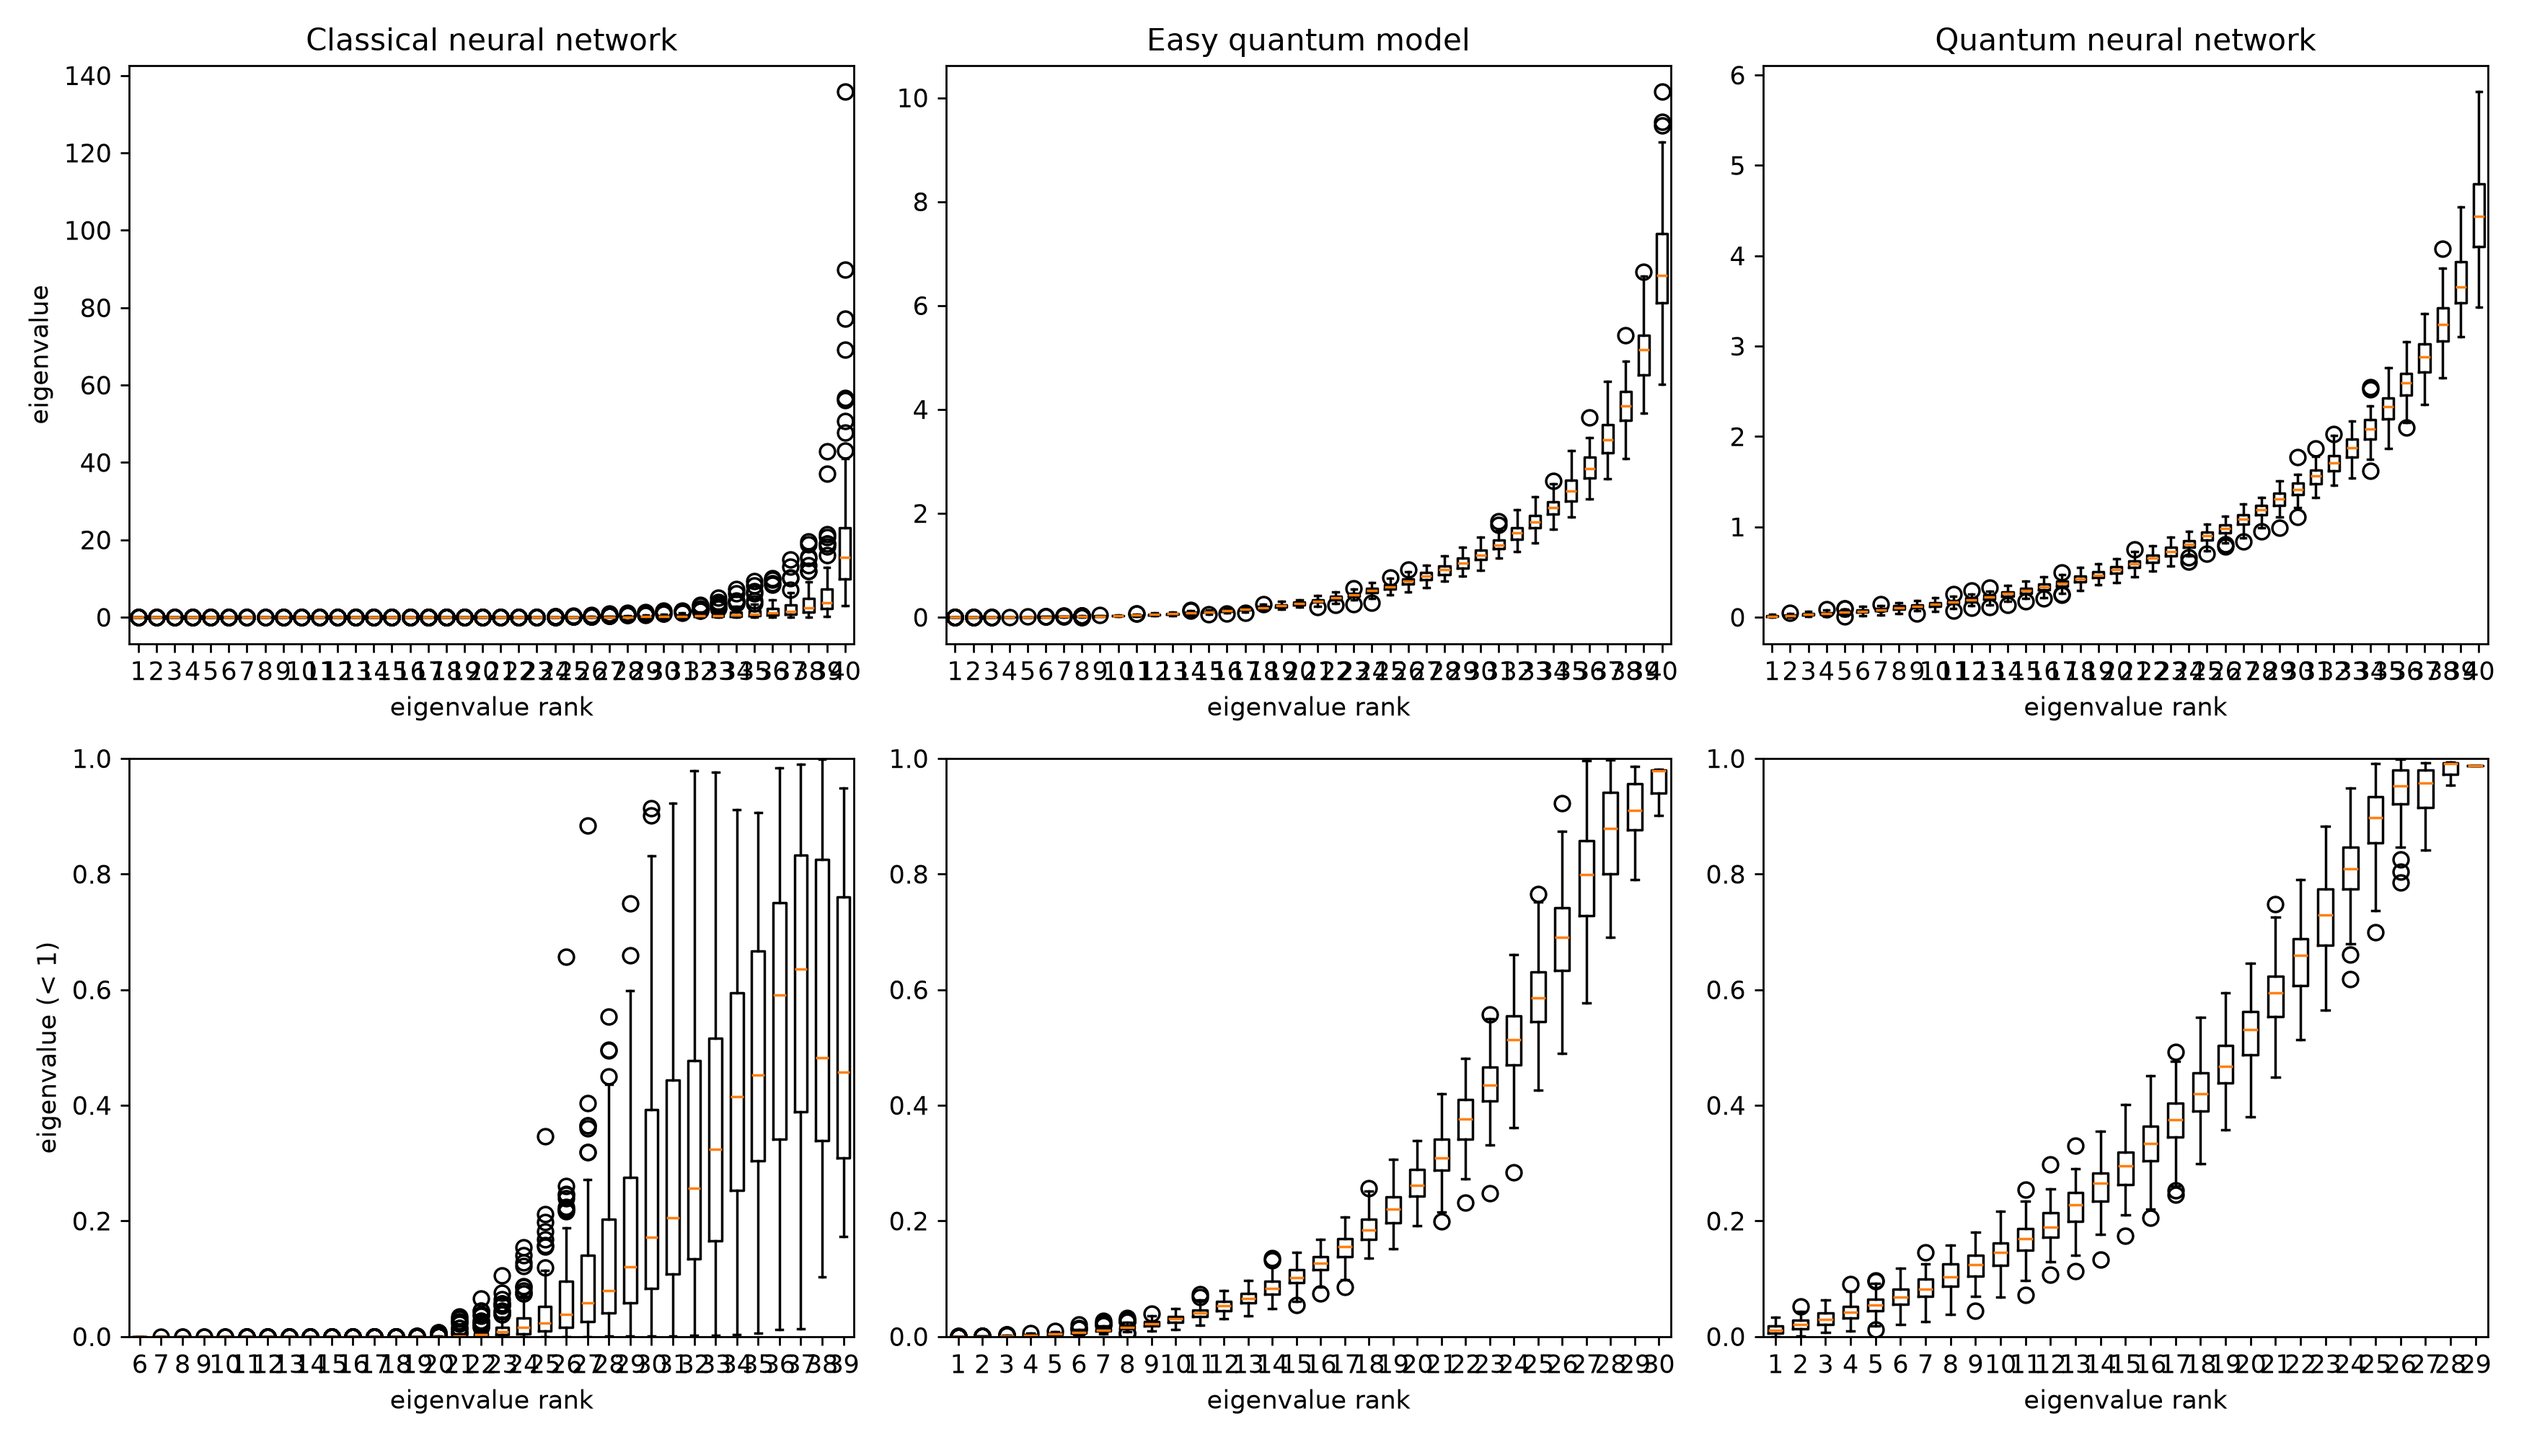
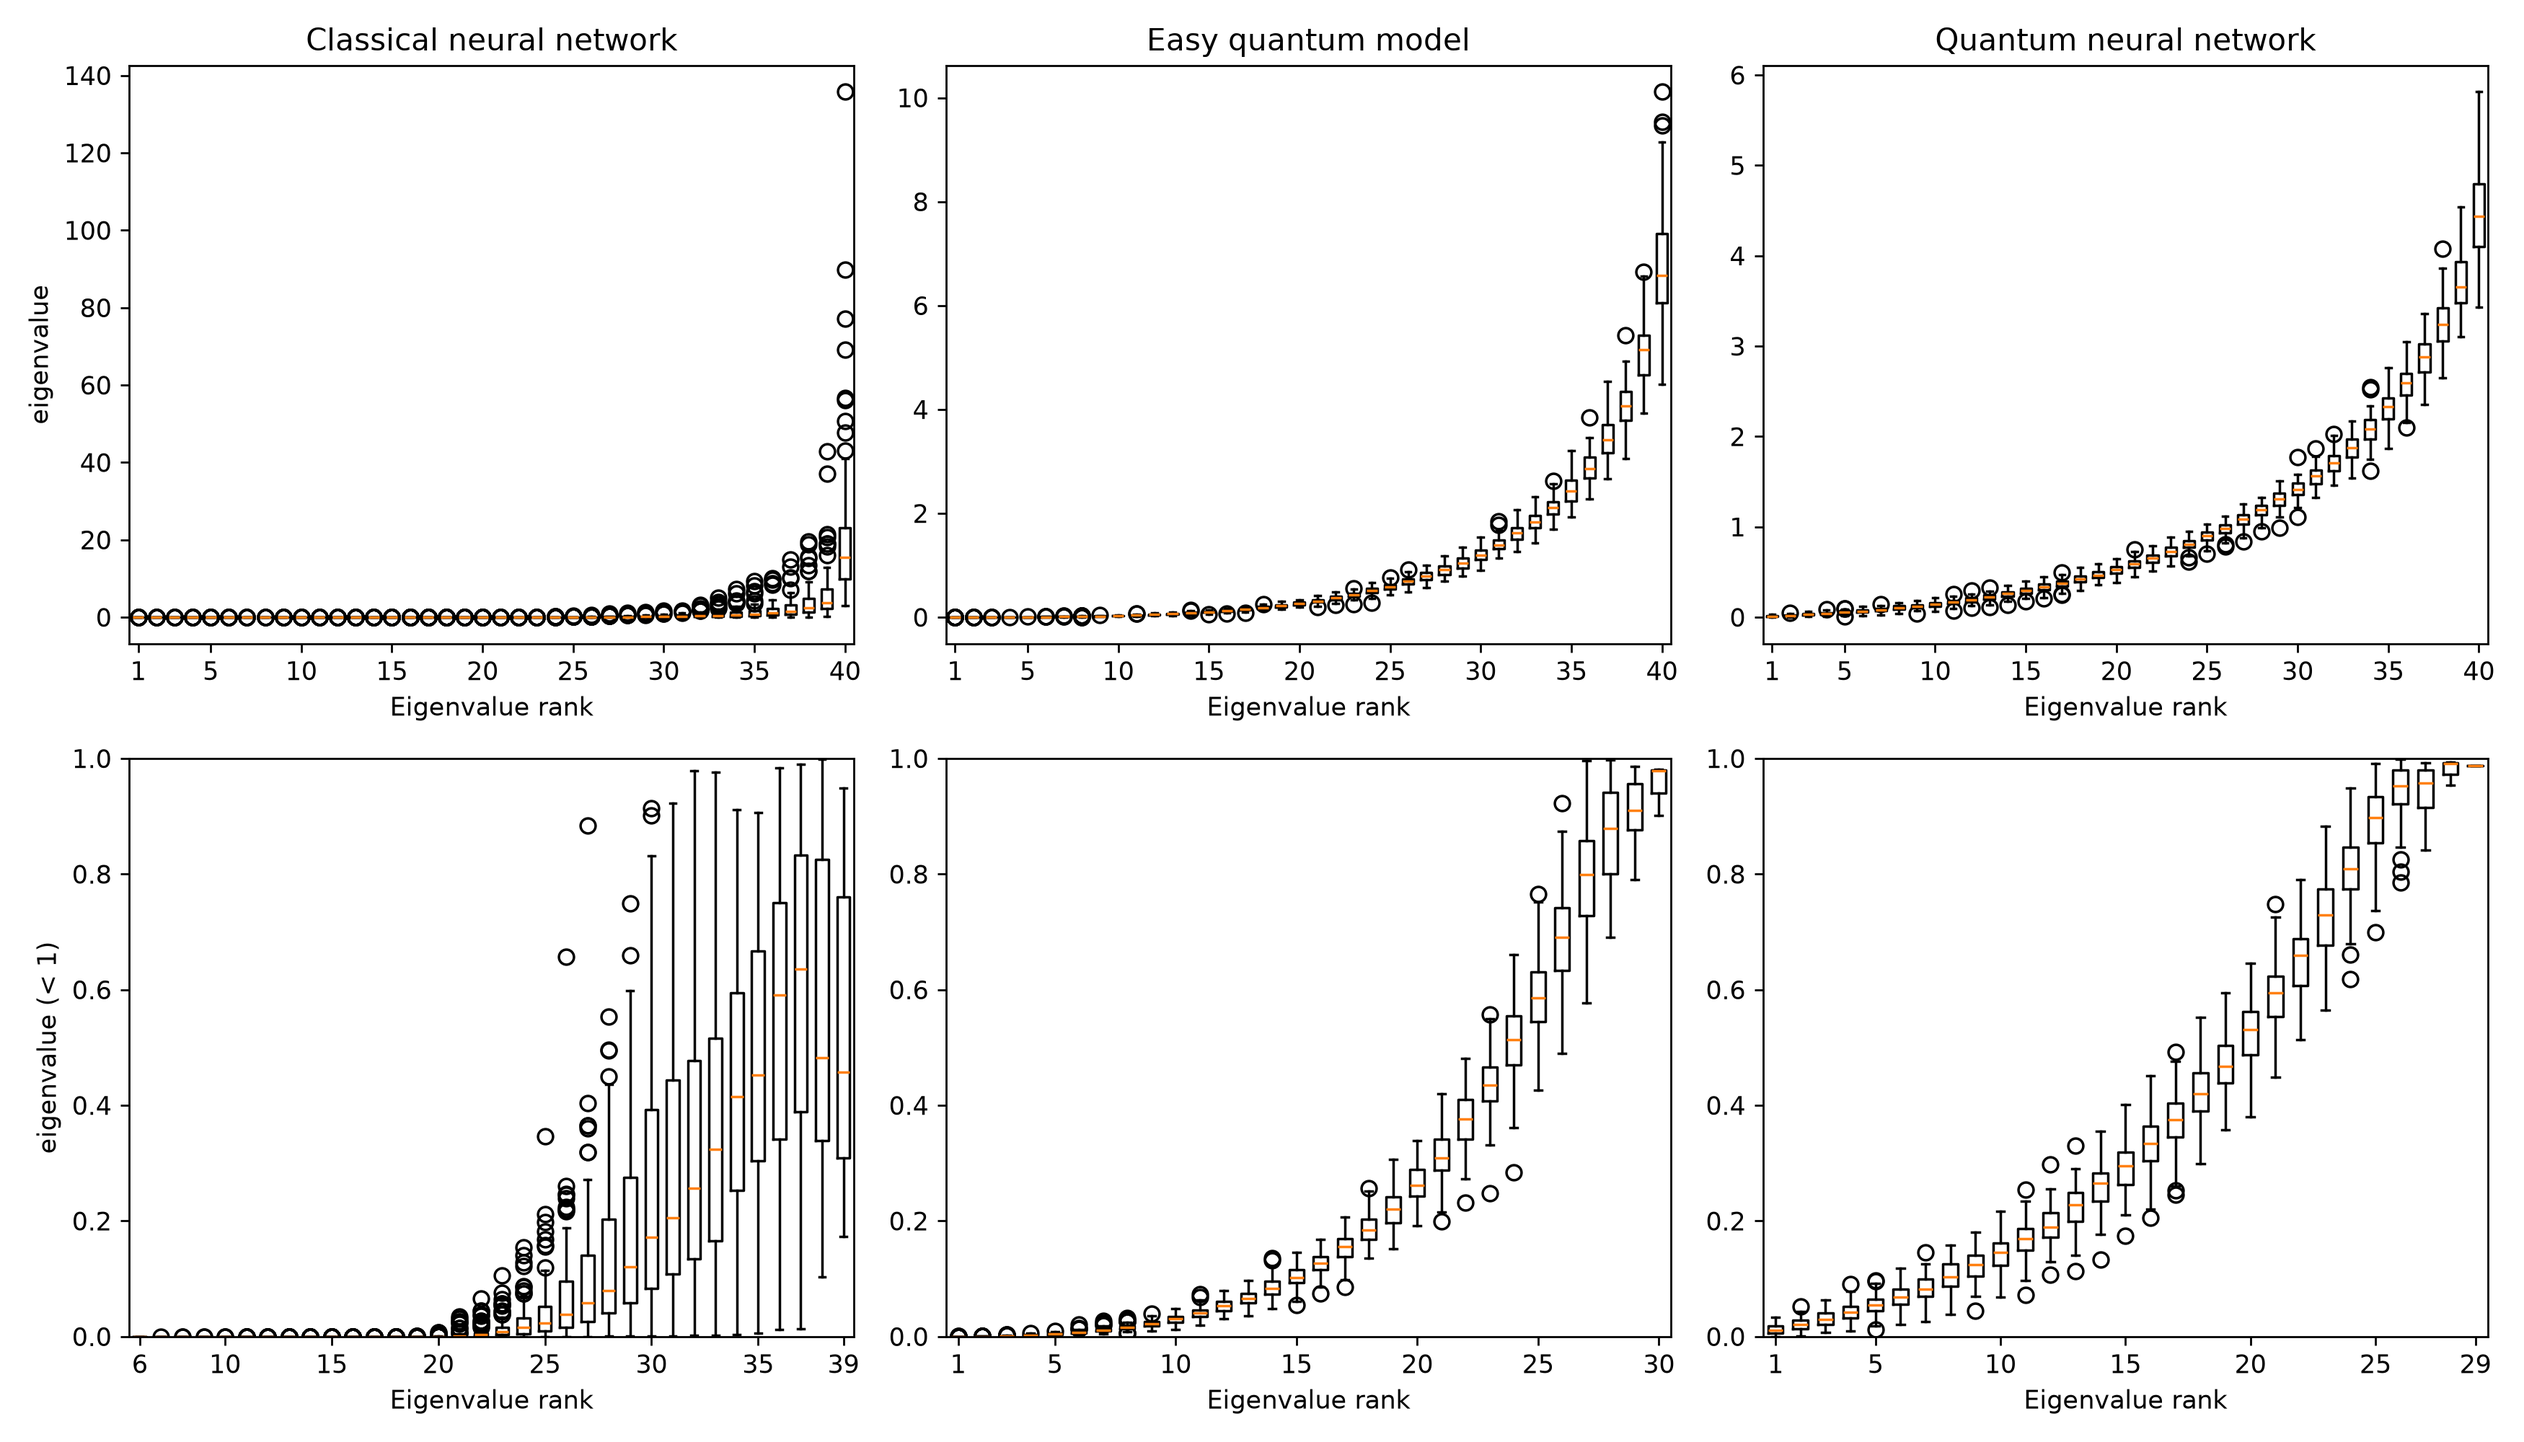
Add reproducible Fisher plotting and improve boxplot rank labels

diff --git a/experiments/fisher_spectrum/plot_results.py b/experiments/fisher_spectrum/plot_results.py
@@ -1,0 +1,325 @@
+from pathlib import Path
+import shutil
+import numpy as np
+import matplotlib.pyplot as plt
+from scipy.special import logsumexp
+from scipy import interpolate
+
+ROOT = Path.cwd()
+DATA = ROOT / "results" / "effective_dimension"
+ARCHIVE = ROOT / "results" / "archive"
+OUT = ROOT / "figures"
+ANALYSIS = ROOT / "results" / "analysis"
+
+ARCHIVE.mkdir(parents=True, exist_ok=True)
+OUT.mkdir(parents=True, exist_ok=True)
+ANALYSIS.mkdir(parents=True, exist_ok=True)
+
+paths = {
+    "Classical NN": DATA / "fhat4_[4 4 4 2]_fisher.npy",
+    "Easy quantum": DATA / "4qubits_9layer_f_hats_pauli.npy",
+    "Quantum NN": DATA / "4qubits_9layer_f_hats_dep2.npy",
+}
+
+missing = [str(p) for p in paths.values() if not p.exists()]
+if missing:
+    raise FileNotFoundError("Missing required dataset(s):\n" + "\n".join(missing))
+
+data = {name: np.load(path) for name, path in paths.items()}
+
+# ---------------------------------------------------------------------
+# Validate the three canonical full datasets.
+# ---------------------------------------------------------------------
+summary_lines = []
+eig_all = {}
+
+for name, x in data.items():
+    if x.shape != (100, 40, 40):
+        raise ValueError(f"{name}: expected (100, 40, 40), got {x.shape}")
+    if not np.isfinite(x).all():
+        raise ValueError(f"{name}: contains non-finite values")
+
+    asym = float(np.max(np.abs(x - x.transpose(0, 2, 1))))
+    eig = np.linalg.eigvalsh(x)
+    min_eig = float(eig.min())
+    max_eig = float(eig.max())
+    mean_trace = float(np.trace(x, axis1=1, axis2=2).mean())
+
+    if asym > 1e-10:
+        raise ValueError(f"{name}: asymmetry too large: {asym}")
+    if min_eig < -1e-10:
+        raise ValueError(f"{name}: significantly negative eigenvalue: {min_eig}")
+    if not np.isclose(mean_trace, 40.0, rtol=0, atol=1e-8):
+        raise ValueError(f"{name}: mean trace is not 40: {mean_trace}")
+
+    eig_all[name] = eig
+
+    summary_lines.append(
+        f"{name:14s} shape={x.shape} finite=True "
+        f"max_asym={asym:.3e} min_eig={min_eig:.6e} "
+        f"max_eig={max_eig:.6e} mean_trace={mean_trace:.12f}"
+    )
+
+print("\nVALIDATION")
+print("-" * 90)
+for line in summary_lines:
+    print(line)
+
+(ANALYSIS / "validation_summary.txt").write_text(
+    "\n".join(summary_lines) + "\n", encoding="utf-8"
+)
+
+# Archive the completed classical dataset.
+classical_archive = ARCHIVE / "cnn_full_100x100.npy"
+shutil.copy2(paths["Classical NN"], classical_archive)
+print(f"\nArchived classical dataset -> {classical_archive}")
+
+# Save raw sorted eigenvalues for later inspection.
+for name, eig in eig_all.items():
+    safe = name.lower().replace(" ", "_")
+    np.save(ANALYSIS / f"{safe}_eigenvalues.npy", eig)
+
+# ---------------------------------------------------------------------
+# Effective dimension
+# Reproduces the n-grid and normalized formula used in the original
+# project plotting script.
+# ---------------------------------------------------------------------
+n = np.array(
+    [1000, 2000, 8000, 10000, 40000, 60000,
+     100000, 150000, 200000, 500000, 1000000],
+    dtype=float,
+)
+
+def normalized_effective_dimension(f_hat, n_values):
+    d = f_hat.shape[-1]
+    out = []
+    for ns in n_values:
+        Fhat = f_hat * ns / (2 * np.pi * np.log(ns))
+        logdet = np.linalg.slogdet(np.eye(d) + Fhat)[1]
+        r = logdet / 2
+        eff = 2 * (logsumexp(r) - np.log(len(f_hat))) / np.log(
+            ns / (2 * np.pi * np.log(ns))
+        )
+        out.append(eff / d)
+    return np.asarray(out)
+
+ed = {
+    name: normalized_effective_dimension(x, n)
+    for name, x in data.items()
+}
+
+np.savetxt(
+    ANALYSIS / "effective_dimension.csv",
+    np.column_stack(
+        [n, ed["Classical NN"], ed["Easy quantum"], ed["Quantum NN"]]
+    ),
+    delimiter=",",
+    header="n,classical_nn,easy_quantum,quantum_nn",
+    comments="",
+)
+
+# Colors preserved from the original project plotting scripts.
+red = np.array([255, 29, 0]) / 255
+blue = np.array([0, 150, 236]) / 255
+green = np.array([0, 208, 0]) / 255
+
+plt.figure(figsize=(8, 6))
+plt.plot(n, ed["Quantum NN"], label="quantum NN", color=green)
+plt.plot(n, ed["Classical NN"], label="classical NN", color=red)
+plt.plot(n, ed["Easy quantum"], label="easy quantum", color=blue)
+plt.xscale("log")
+plt.xlabel("number of data")
+plt.ylabel("normalised effective dimension")
+plt.ylim(top=1)
+plt.legend()
+plt.tight_layout()
+plt.savefig(OUT / "effective_dimension.png", dpi=250)
+plt.close()
+
+# ---------------------------------------------------------------------
+# Fisher spectra
+# The historical project plotting code first sorted each Fisher matrix's
+# eigenvalues and then averaged each eigenvalue rank over 100 samples.
+# ---------------------------------------------------------------------
+avg_eigs = {
+    name: np.mean(eig, axis=0)
+    for name, eig in eig_all.items()
+}
+
+np.savetxt(
+    ANALYSIS / "average_sorted_eigenvalues.csv",
+    np.column_stack(
+        [
+            avg_eigs["Classical NN"],
+            avg_eigs["Easy quantum"],
+            avg_eigs["Quantum NN"],
+        ]
+    ),
+    delimiter=",",
+    header="classical_nn,easy_quantum,quantum_nn",
+    comments="",
+)
+
+def density_curve(values, restrict_lt_one=False):
+    v = np.asarray(values)
+    if restrict_lt_one:
+        v = v[(v > 0) & (v < 1)]
+    if len(v) < 4:
+        return None, None
+
+    lo, hi = float(v.min()), float(v.max())
+    if np.isclose(lo, hi):
+        return np.array([lo]), np.array([1.0])
+
+    counts, bins = np.histogram(v, bins=np.linspace(lo, hi, 40))
+    mids = (bins[1:] + bins[:-1]) / 2
+    y = counts / max(counts.sum(), 1)
+
+    # Match the historical plotting approach, but fall back gracefully.
+    try:
+        x_new = np.linspace(mids.min(), mids.max(), 200)
+        spline = interpolate.make_interp_spline(mids, y)
+        y_new = spline(x_new)
+        y_new = np.clip(y_new, 0, None)
+        return x_new, y_new
+    except Exception:
+        return mids, y
+
+titles = ["Classical neural network", "Easy quantum model", "Quantum neural network"]
+keys = ["Classical NN", "Easy quantum", "Quantum NN"]
+colors = [red, blue, green]
+
+fig, axes = plt.subplots(1, 3, figsize=(14, 4))
+for ax, title, key, color in zip(axes, titles, keys, colors):
+    xx, yy = density_curve(avg_eigs[key], restrict_lt_one=False)
+    ax.plot(xx, yy, color=color)
+    ax.set_title(title)
+    ax.set_ylim(bottom=0)
+axes[0].set_ylabel("density")
+axes[1].set_xlabel("value of the eigenvalues")
+fig.tight_layout()
+fig.savefig(OUT / "fisher_spectrum.png", dpi=250)
+plt.close(fig)
+
+fig, axes = plt.subplots(1, 3, figsize=(14, 4))
+for ax, title, key, color in zip(axes, titles, keys, colors):
+    xx, yy = density_curve(avg_eigs[key], restrict_lt_one=True)
+    if xx is not None:
+        ax.plot(xx, yy, color=color)
+    ax.set_title(title)
+    ax.set_xlim(0, 1)
+    ax.set_ylim(0, 1)
+axes[0].set_ylabel("density")
+axes[1].set_xlabel("value of the eigenvalues")
+fig.tight_layout()
+fig.savefig(OUT / "fisher_spectrum_zoom_lt1_new.png", dpi=250)
+plt.close(fig)
+
+# ---------------------------------------------------------------------
+# Cumulative Fisher spectrum, again following the historical logic.
+# ---------------------------------------------------------------------
+fig, axes = plt.subplots(1, 3, figsize=(14, 4))
+for ax, title, key, color in zip(axes, titles, keys, colors):
+    v = avg_eigs[key]
+    lo, hi = float(v.min()), float(v.max())
+    counts, bins = np.histogram(v, bins=np.linspace(lo, hi, 40))
+    cumulative = np.cumsum(counts) / max(counts.sum(), 1)
+    ax.plot(bins[:-1], cumulative, color=color)
+    ax.set_title(title)
+    ax.set_ylim(0, 1)
+axes[0].set_ylabel("cumulative density")
+axes[1].set_xlabel("value of the eigenvalues")
+fig.tight_layout()
+fig.savefig(OUT / "fisher_cumulative.png", dpi=250)
+plt.close(fig)
+
+# ---------------------------------------------------------------------
+# Presentation-style 2x3 eigenvalue boxplot.
+# Each column is a model; top row shows all 40 sorted eigenvalue ranks
+# across the 100 sampled Fisher matrices, bottom row zooms to < 1.
+# ---------------------------------------------------------------------
+fig, axes = plt.subplots(2, 3, figsize=(14, 8))
+
+for col, (title, key, color) in enumerate(zip(titles, keys, colors)):
+    eig = eig_all[key]  # shape (100, 40), sorted ascending per sample
+
+    axes[0, col].boxplot(
+        [eig[:, j] for j in range(eig.shape[1])],
+        showfliers=True,
+        widths=0.6,
+    )
+    axes[0, col].set_title(title)
+    axes[0, col].set_xlabel("Eigenvalue rank")
+
+    # Sparse rank ticks for readability.
+    rank_ticks = sorted(set(
+        [1]
+        + list(range(5, eig.shape[1] + 1, 5))
+        + [eig.shape[1]]
+    ))
+    axes[0, col].set_xticks(rank_ticks)
+    axes[0, col].set_xticklabels(rank_ticks)
+
+    # For the zoomed view, preserve rank-wise samples below 1.
+    zoom_groups = []
+    positions = []
+    for j in range(eig.shape[1]):
+        vals = eig[:, j]
+        vals = vals[(vals > 0) & (vals < 1)]
+        if len(vals):
+            zoom_groups.append(vals)
+            positions.append(j + 1)
+
+    if zoom_groups:
+        axes[1, col].boxplot(
+            zoom_groups,
+            positions=positions,
+            showfliers=True,
+            widths=0.6,
+        )
+    axes[1, col].set_ylim(0, 1)
+    axes[1, col].set_xlabel("Eigenvalue rank")
+
+    # Preserve the real eigenvalue ranks, but label only sparse ticks.
+    if positions:
+        first_rank = min(positions)
+        last_rank = max(positions)
+
+        zoom_ticks = sorted(set(
+            [first_rank]
+            + list(range(5, last_rank + 1, 5))
+            + [last_rank]
+        ))
+
+        zoom_ticks = [
+            t for t in zoom_ticks
+            if first_rank <= t <= last_rank
+        ]
+
+        axes[1, col].set_xticks(zoom_ticks)
+        axes[1, col].set_xticklabels(zoom_ticks)
+
+axes[0, 0].set_ylabel("eigenvalue")
+axes[1, 0].set_ylabel("eigenvalue (< 1)")
+fig.tight_layout()
+fig.savefig(OUT / "fisher_boxplots.png", dpi=250)
+plt.close(fig)
+
+print("\nEFFECTIVE DIMENSION")
+print("-" * 90)
+for i, ns in enumerate(n.astype(int)):
+    print(
+        f"n={ns:7d}  "
+        f"classical={ed['Classical NN'][i]:.6f}  "
+        f"easy={ed['Easy quantum'][i]:.6f}  "
+        f"qnn={ed['Quantum NN'][i]:.6f}"
+    )
+
+print("\nCreated:")
+for p in sorted(OUT.glob("*.png")):
+    print(" ", p)
+
+print("\nAnalysis tables:")
+for p in sorted(ANALYSIS.glob("*")):
+    print(" ", p)
+
